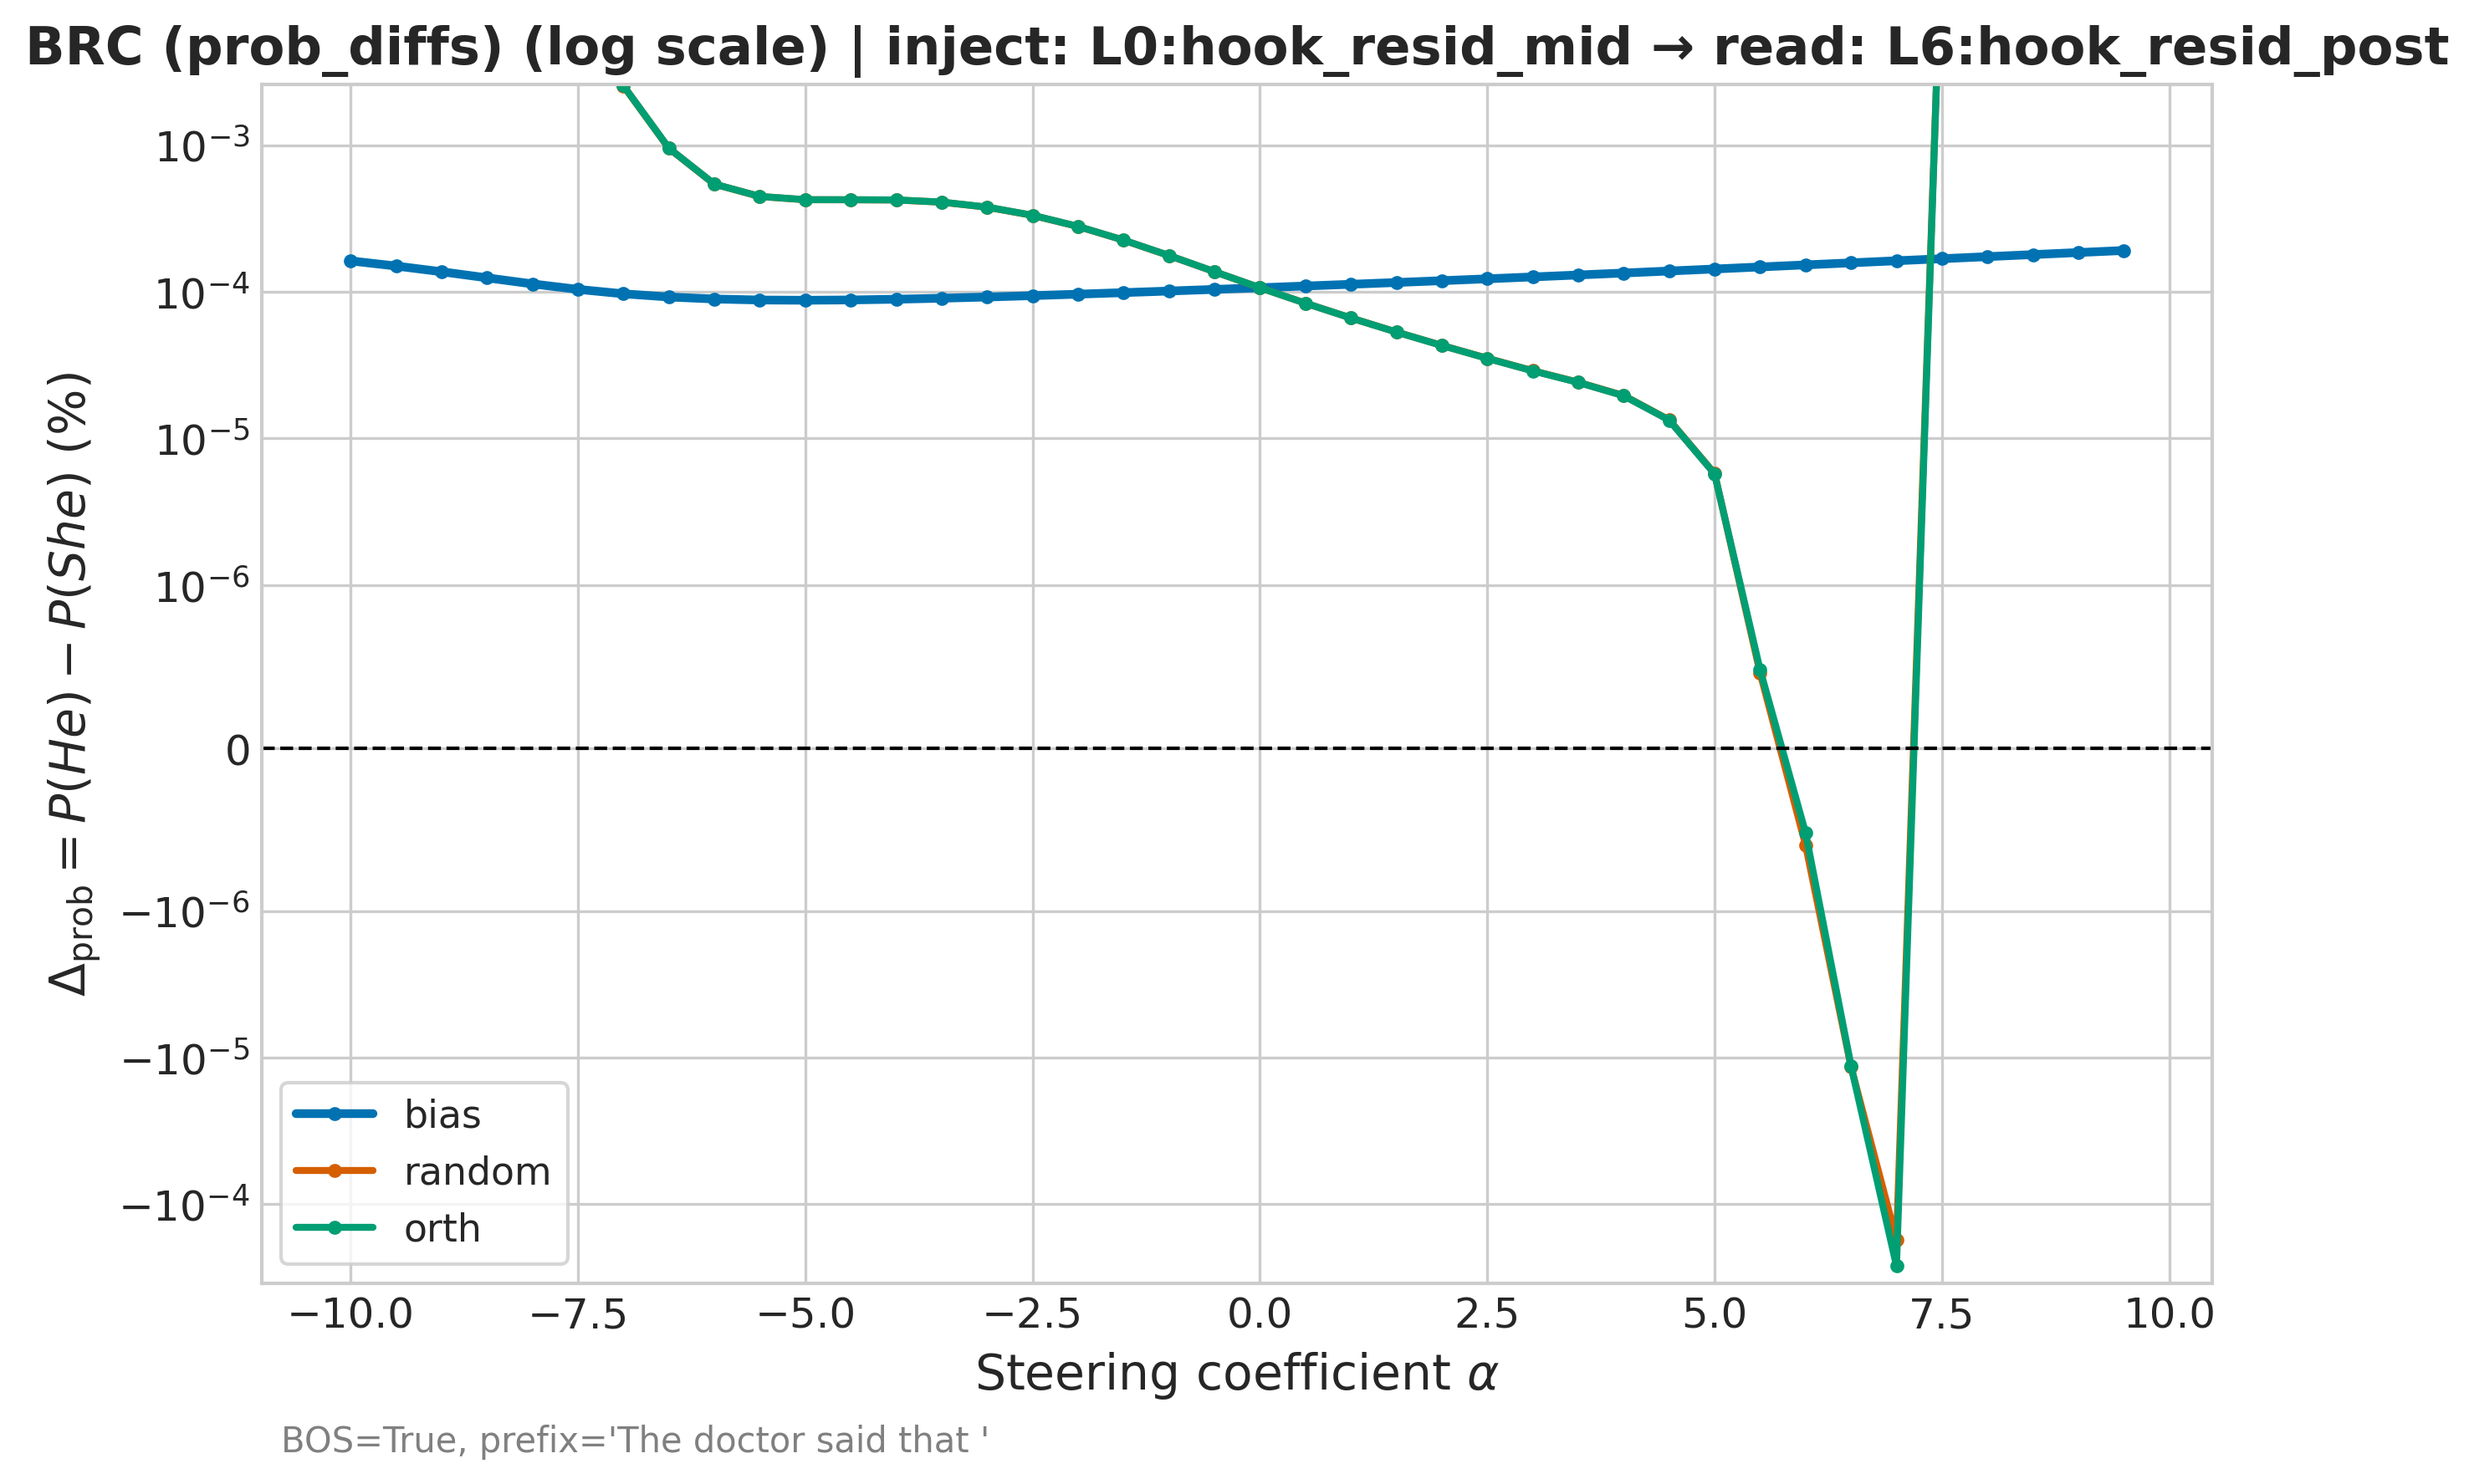
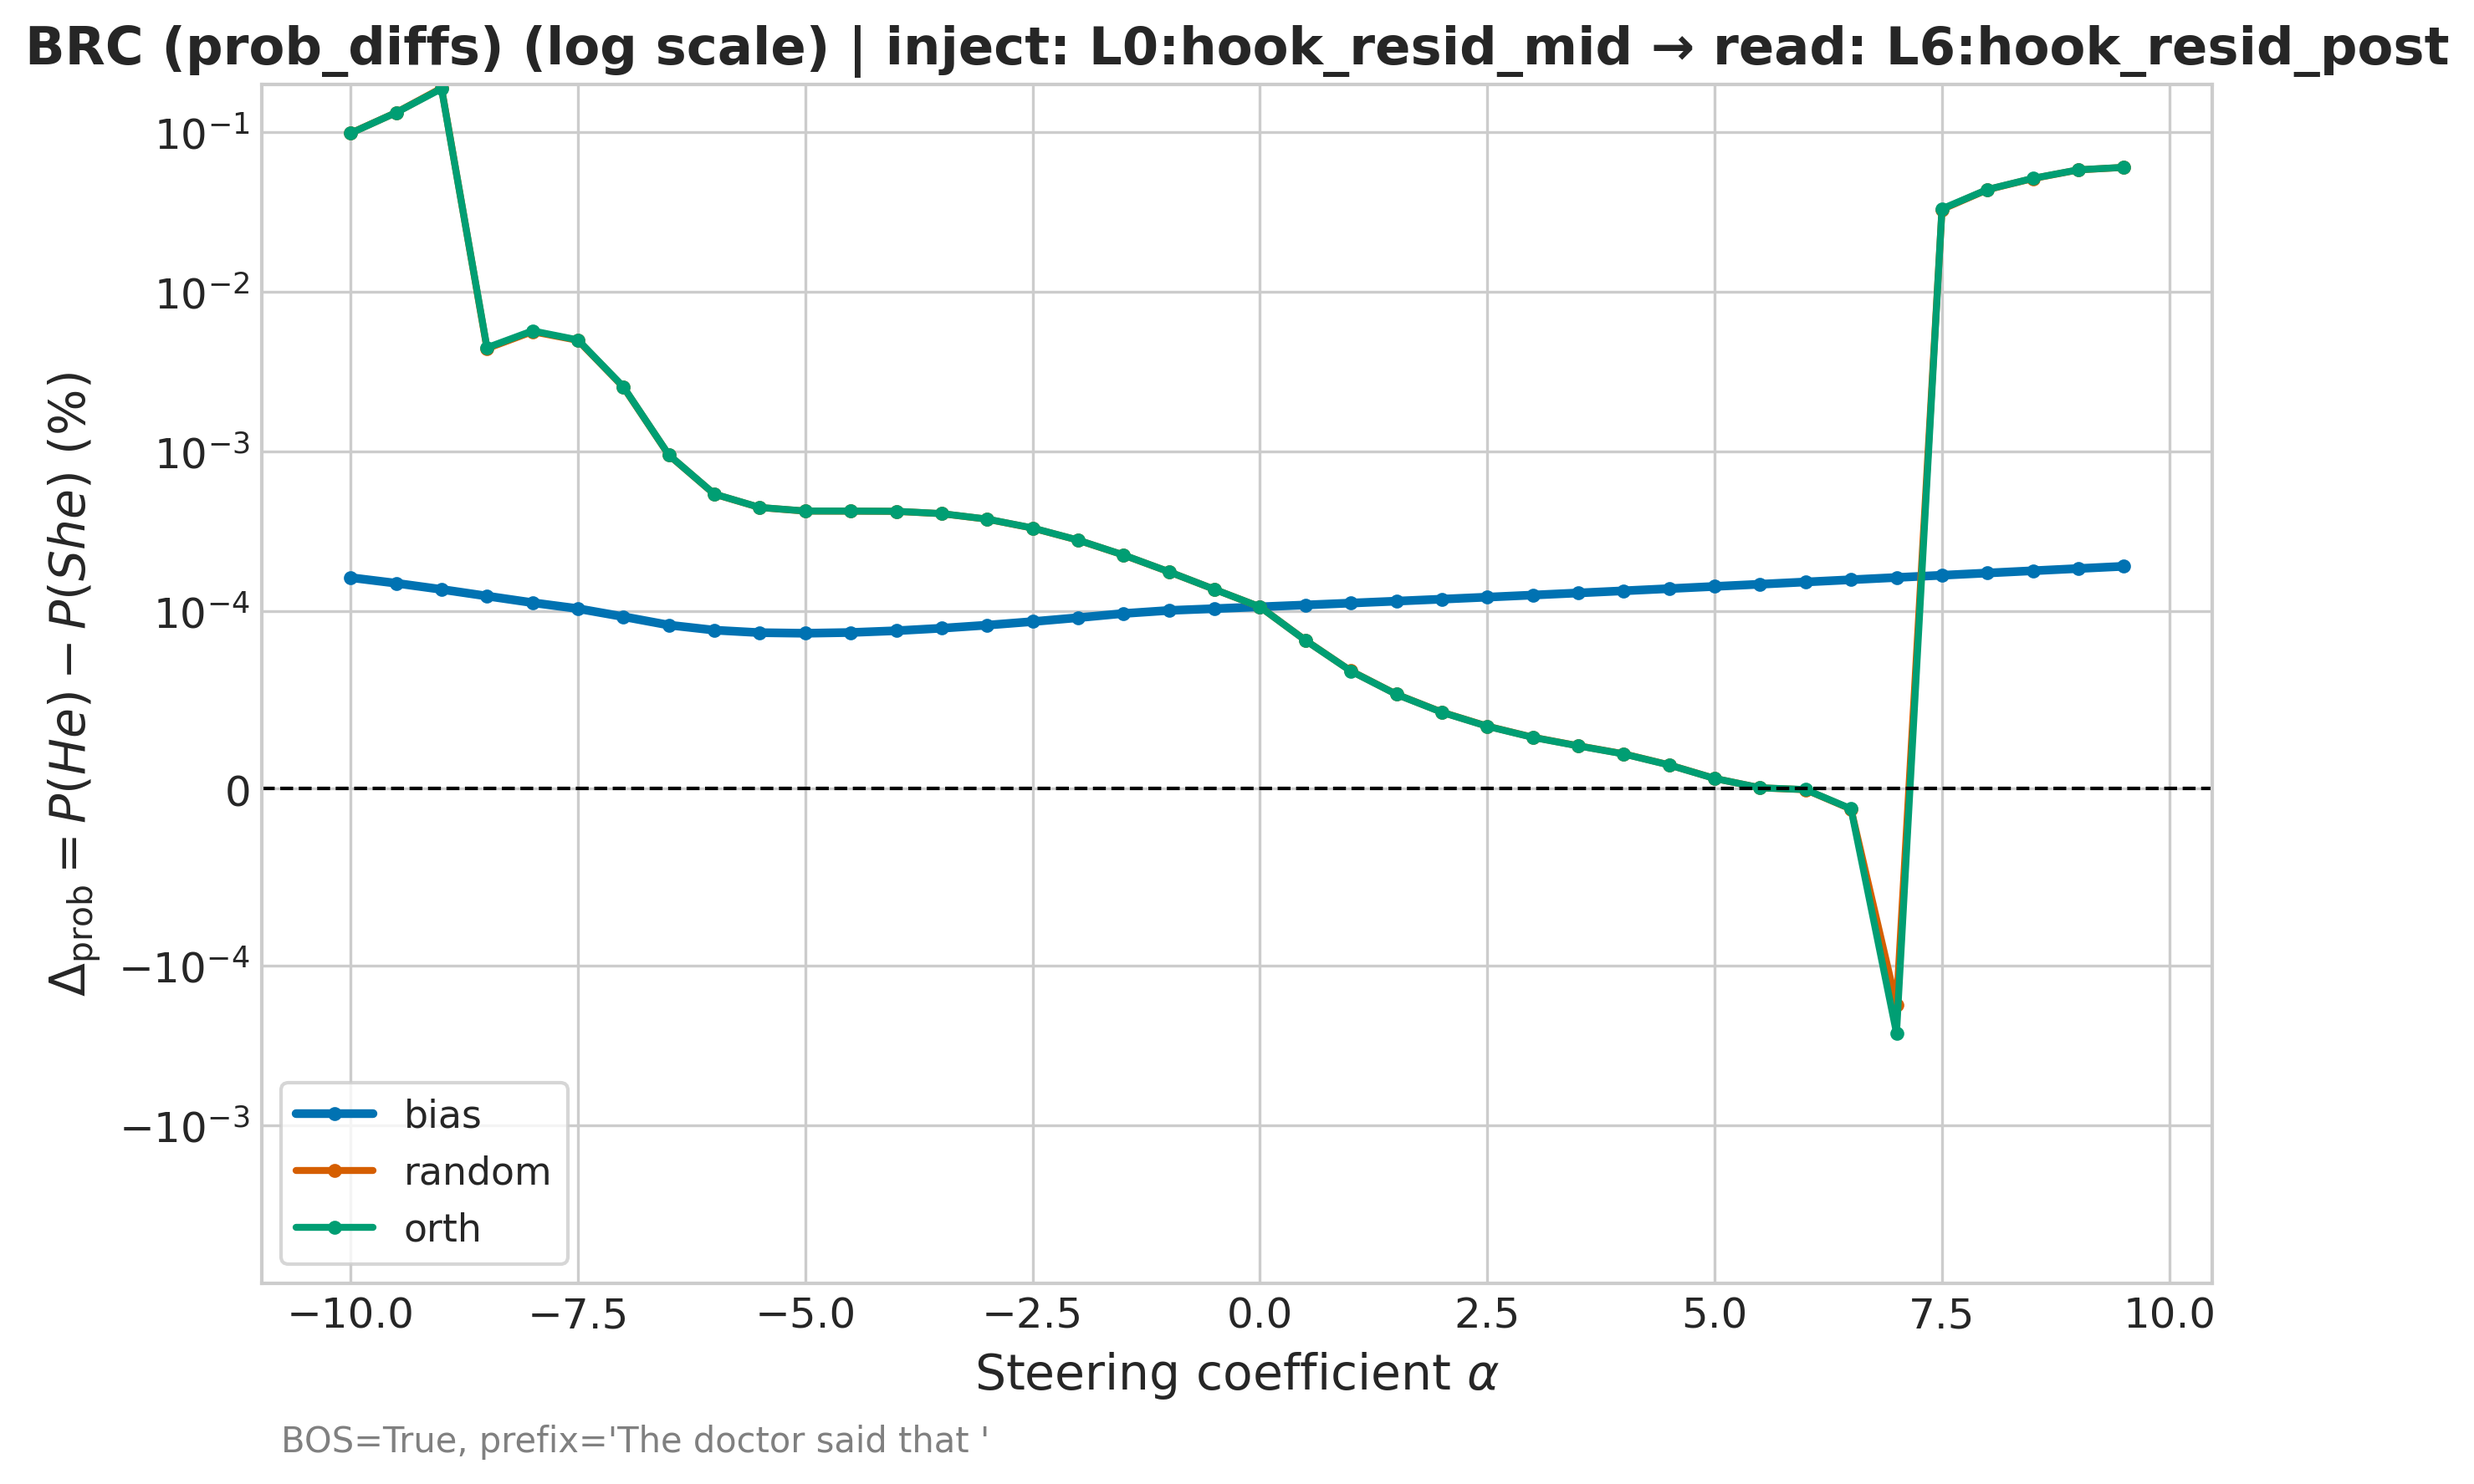
new plots

diff --git a/BRC_Experiment/Modularized/plotting.py b/BRC_Experiment/Modularized/plotting.py
@@ -80,9 +80,29 @@ def plot_and_save_brc_curves(
         weight="bold",
     )
     
-    # Apply log scale if requested
+    # Apply log scale first if requested
     if use_log_scale:
-        ax.set_yscale('symlog', linthresh=1e-6)  # Use symlog to handle values near zero
+        # Use symlog with a reasonable threshold for prob_diffs data
+        ax.set_yscale('symlog', linthresh=1e-4)  # Linear region around zero
+
+    # ================ Y-AXIS LIMITS ================
+    if use_log_scale:
+        # For log scale, let matplotlib auto-scale for better visualization of orders of magnitude
+        pass  # Don't set manual limits with log scale
+    else:
+        # Normal scale: use fixed limits if provided, otherwise auto-calculate
+        if fixed_y_limits is not None:
+            ax.set_ylim(fixed_y_limits[0], fixed_y_limits[1])
+        else:
+            yvals = series["bias"] + series["random"] + series["orth"]
+            if yvals:
+                ymin, ymax = min(yvals), max(yvals)
+                if ymax == ymin:
+                    pad = 0.1 if ymax == 0 else abs(ymax) * 0.1
+                    ax.set_ylim(ymin - pad, ymax + pad)
+                else:
+                    yr = ymax - ymin
+                    ax.set_ylim(ymin - 0.1 * yr, ymax + 0.1 * yr)
     
     ax.legend(frameon=True, fontsize=11)
     ax.tick_params(axis="both", which="major", labelsize=12)
@@ -90,20 +110,6 @@ def plot_and_save_brc_curves(
     # ================ ANNOTATIONS ================
     note = f"BOS={prepend_bos}, prefix='{prefix}'"
     ax.text(0.01, -0.14, note, transform=ax.transAxes, fontsize=10, color="gray")
-
-    # ================ Y-AXIS LIMITS ================
-    if fixed_y_limits is not None:
-        ax.set_ylim(fixed_y_limits[0], fixed_y_limits[1])
-    else:
-        yvals = series["bias"] + series["random"] + series["orth"]
-        if yvals:
-            ymin, ymax = min(yvals), max(yvals)
-            if ymax == ymin:
-                pad = 0.1 if ymax == 0 else abs(ymax) * 0.1
-                ax.set_ylim(ymin - pad, ymax + pad)
-            else:
-                yr = ymax - ymin
-                ax.set_ylim(ymin - 0.1 * yr, ymax + 0.1 * yr)
 
     plt.tight_layout()
 
